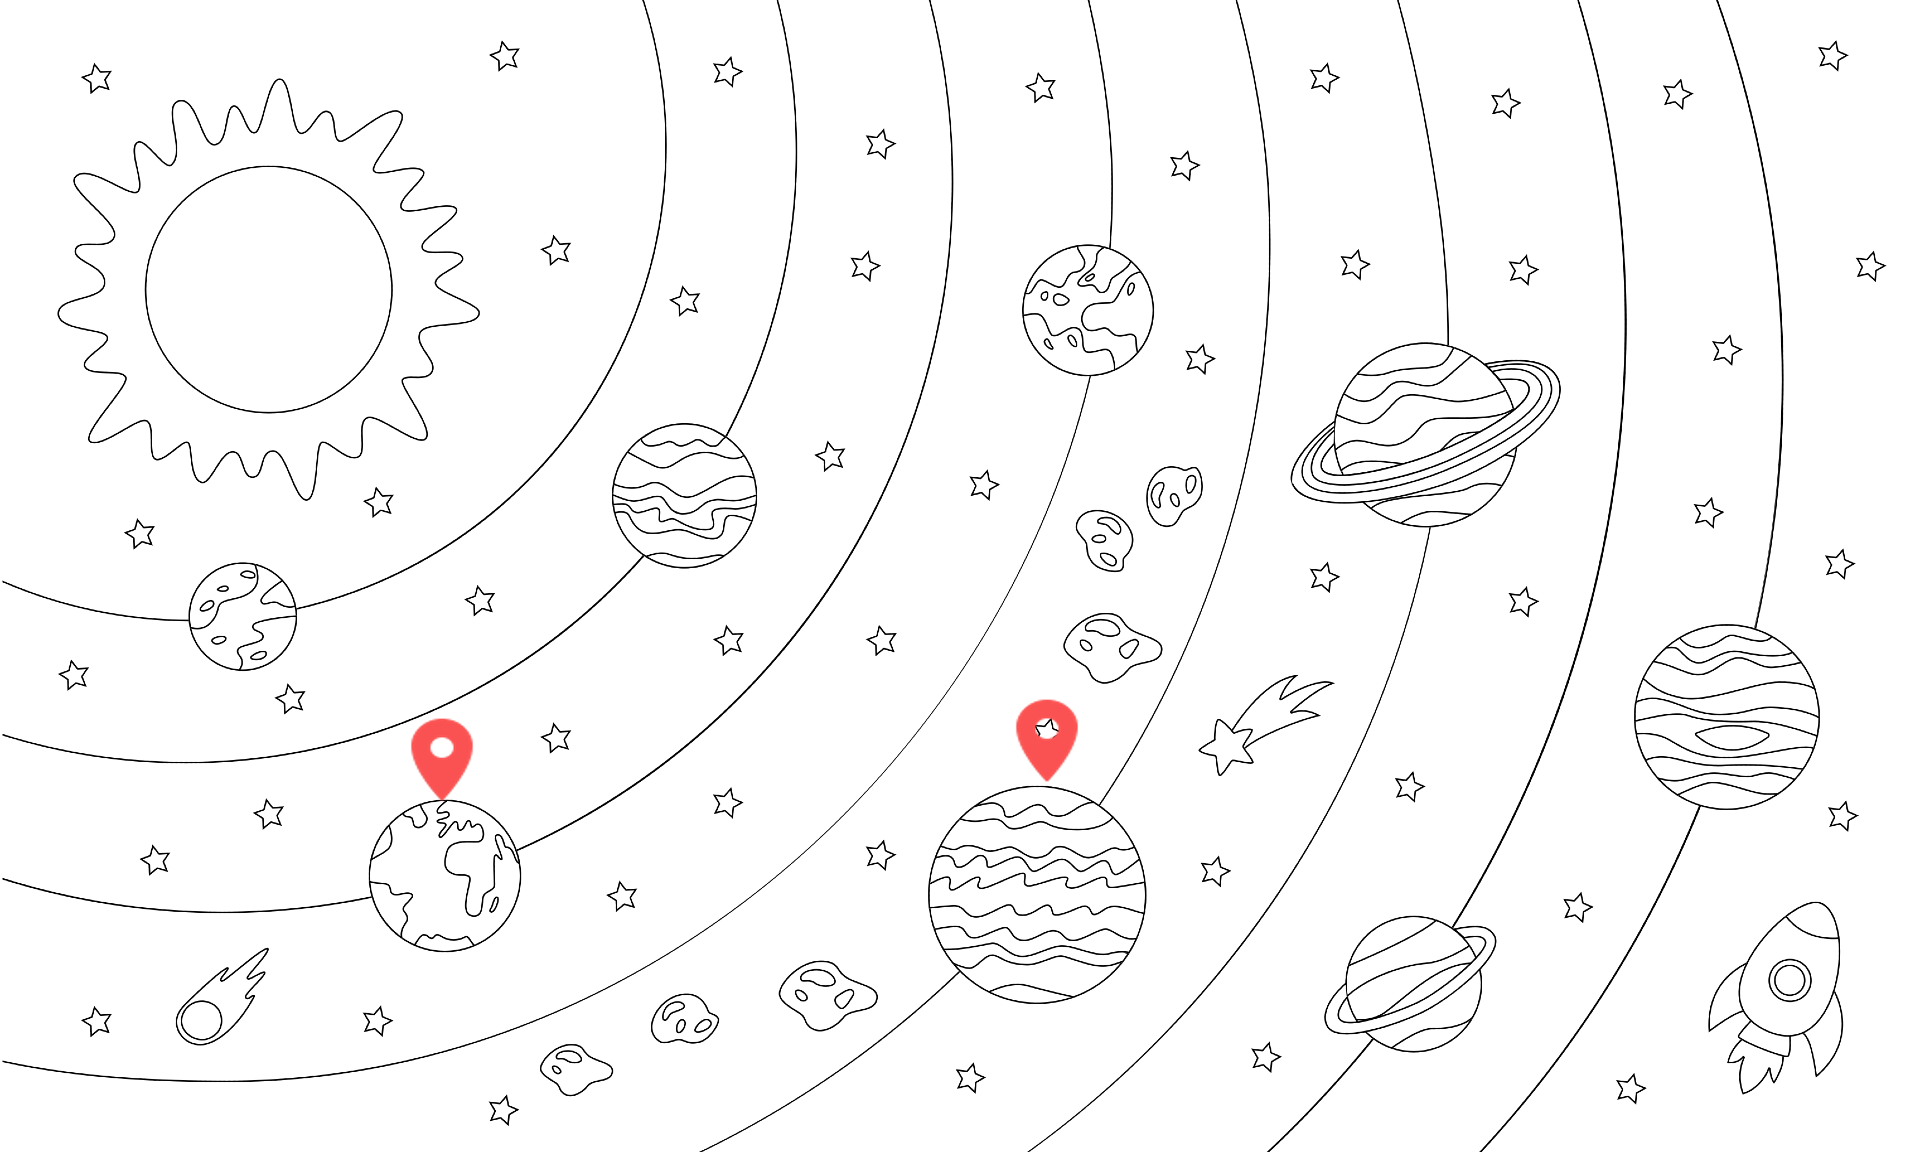
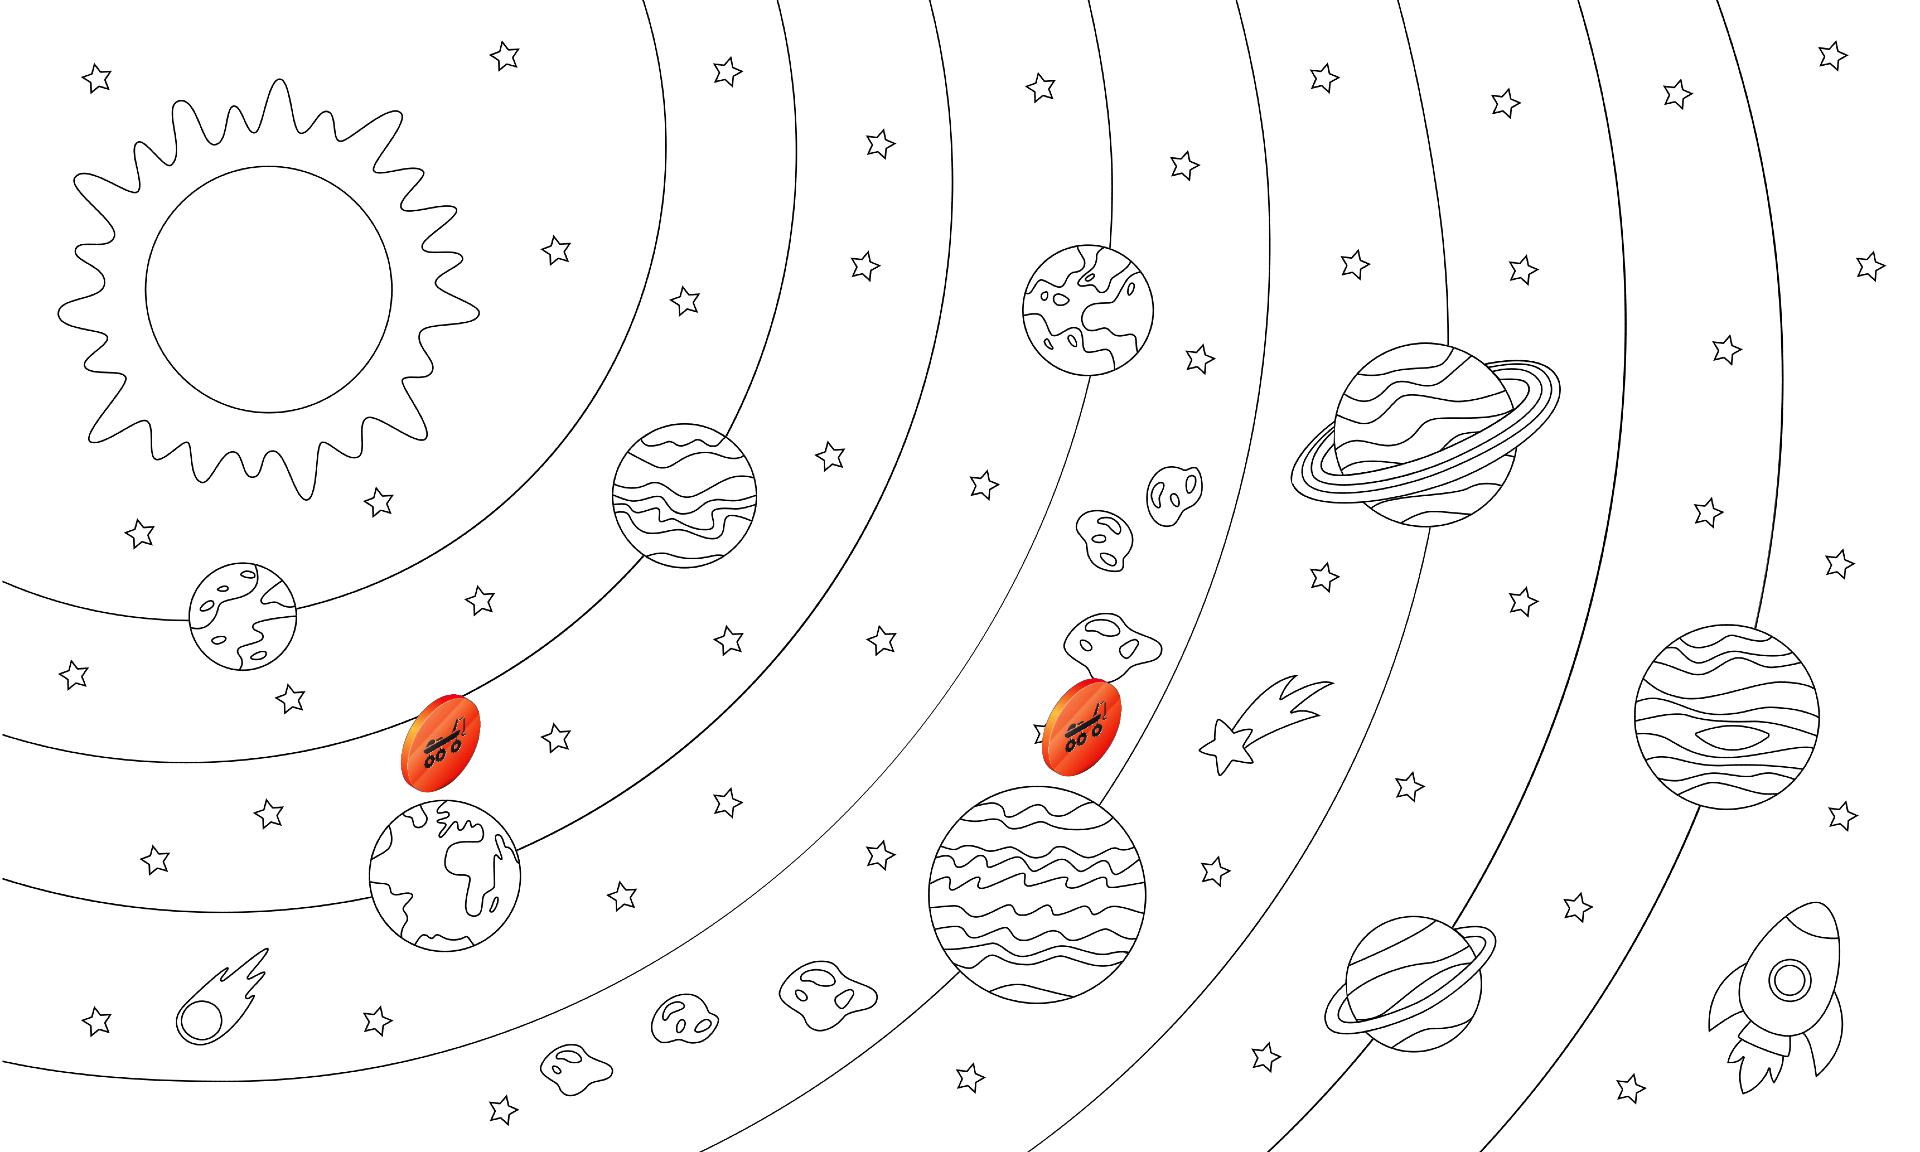
coin marker added to map

Changed region(s): [[0.5312, 0.5938, 0.5938, 0.6875], [0.1875, 0.5938, 0.25, 0.6875]]

diff --git a/ui/src/screens/AtmScreen.jsx b/ui/src/screens/AtmScreen.jsx
@@ -22,7 +22,7 @@ import { faLocationDot } from "@fortawesome/free-solid-svg-icons";
 import { faAngleDown, faAngleUp } from "@fortawesome/free-solid-svg-icons";
 import "leaflet/dist/leaflet.css";
 import "../index.css";
-import mapIcon from "../assets/mapIcon.png";
+import mapIcon from "../assets/coin.png";
 import mapImg from "../assets/mapPlanets.png";
 
 const AtmScreen = () => {
@@ -72,6 +72,7 @@ const AtmScreen = () => {
         isOpenNow,
         isInterPlanetary,
       }).unwrap();
+      console.log(res);
       dispatch(setAtms(res));
       setAtmsList(res);
       toast.success("Found ATMs near you!", {
